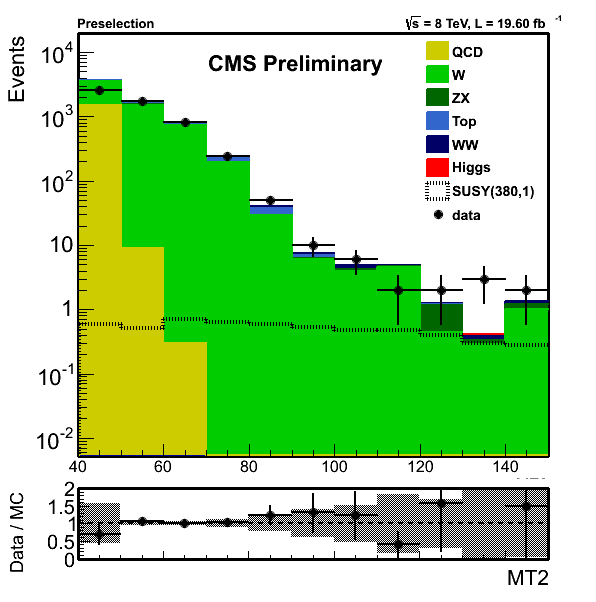
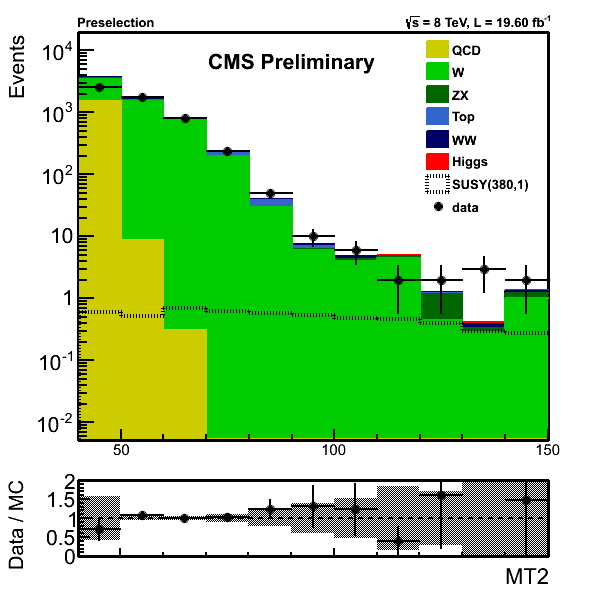
small fix

diff --git a/notes/AN-14-275/trunk/SelectionEleTau/MT2.C b/notes/AN-14-275/trunk/SelectionEleTau/MT2.C
@@ -13,7 +13,7 @@ void MT2()
    MT2_ratio_AllSUSYc_ratio_MT2_MT2PreCut->SetFrameLineWidth(3);
 
 // ------------>Primitives in pad: MT2_ratio_AllSUSY_plotpad_MT2_MT2PreCut
-   TPad *MT2_ratio_AllSUSY_plotpad_MT2_MT2PreCut = new TPad("MT2_ratio_AllSUSY_plotpad_MT2_MT2PreCut", "Pad containing the overlay plot",0,0.1829268,1,1);
+   TPad *MT2_ratio_AllSUSY_plotpad_MT2_MT2PreCut = new TPad("MT2_ratio_AllSUSY_plotpad_MT2_MT2PreCut", "Pad containing the overlay plot",0,0.211838,1,1);
    MT2_ratio_AllSUSY_plotpad_MT2_MT2PreCut->Draw();
    MT2_ratio_AllSUSY_plotpad_MT2_MT2PreCut->cd();
    MT2_ratio_AllSUSY_plotpad_MT2_MT2PreCut->Range(21.64218,-2.833557,161.1615,4.817841);
@@ -45,7 +45,7 @@ void MT2()
    TColor *color; // for color definition with alpha
    ci = TColor::GetColor("#000099");
    MT2PreCut_MT2_stack_2->SetLineColor(ci);
-   MT2PreCut_MT2_stack_2->GetXaxis()->SetTitle("MT2");
+   //   MT2PreCut_MT2_stack_2->GetXaxis()->SetTitle("MT2");
    MT2PreCut_MT2_stack_2->GetXaxis()->SetLabelFont(42);
    MT2PreCut_MT2_stack_2->GetXaxis()->SetLabelSize(0.035);
    MT2PreCut_MT2_stack_2->GetXaxis()->SetTitleSize(0.035);
@@ -624,7 +624,7 @@ tex->SetNDC();
    MT2_ratio_AllSUSYc_ratio_MT2_MT2PreCut->cd();
   
 // ------------>Primitives in pad: MT2_ratio_AllSUSY_ratiopad_MT2_MT2PreCut
-   TPad *MT2_ratio_AllSUSY_ratiopad_MT2_MT2PreCut = new TPad("MT2_ratio_AllSUSY_ratiopad_MT2_MT2PreCut", "Pad containing the ratio",0,0.01916376,0.9966443,0.2038328);
+   TPad *MT2_ratio_AllSUSY_ratiopad_MT2_MT2PreCut = new TPad("MT2_ratio_AllSUSY_ratiopad_MT2_MT2PreCut", "Pad containing the ratio",0,0.01863354,0.9967105,0.2189441);
    MT2_ratio_AllSUSY_ratiopad_MT2_MT2PreCut->Draw();
    MT2_ratio_AllSUSY_ratiopad_MT2_MT2PreCut->cd();
    MT2_ratio_AllSUSY_ratiopad_MT2_MT2PreCut->Range(21.74468,-0.8955223,160.766,2.268657);

diff --git a/notes/SUS-14-022/trunk/SelectionEleTau/MT2.C b/notes/SUS-14-022/trunk/SelectionEleTau/MT2.C
@@ -13,7 +13,7 @@ void MT2()
    MT2_ratio_AllSUSYc_ratio_MT2_MT2PreCut->SetFrameLineWidth(3);
 
 // ------------>Primitives in pad: MT2_ratio_AllSUSY_plotpad_MT2_MT2PreCut
-   TPad *MT2_ratio_AllSUSY_plotpad_MT2_MT2PreCut = new TPad("MT2_ratio_AllSUSY_plotpad_MT2_MT2PreCut", "Pad containing the overlay plot",0,0.1829268,1,1);
+   TPad *MT2_ratio_AllSUSY_plotpad_MT2_MT2PreCut = new TPad("MT2_ratio_AllSUSY_plotpad_MT2_MT2PreCut", "Pad containing the overlay plot",0,0.211838,1,1);
    MT2_ratio_AllSUSY_plotpad_MT2_MT2PreCut->Draw();
    MT2_ratio_AllSUSY_plotpad_MT2_MT2PreCut->cd();
    MT2_ratio_AllSUSY_plotpad_MT2_MT2PreCut->Range(21.64218,-2.833557,161.1615,4.817841);
@@ -45,7 +45,7 @@ void MT2()
    TColor *color; // for color definition with alpha
    ci = TColor::GetColor("#000099");
    MT2PreCut_MT2_stack_2->SetLineColor(ci);
-   MT2PreCut_MT2_stack_2->GetXaxis()->SetTitle("MT2");
+   //   MT2PreCut_MT2_stack_2->GetXaxis()->SetTitle("MT2");
    MT2PreCut_MT2_stack_2->GetXaxis()->SetLabelFont(42);
    MT2PreCut_MT2_stack_2->GetXaxis()->SetLabelSize(0.035);
    MT2PreCut_MT2_stack_2->GetXaxis()->SetTitleSize(0.035);
@@ -624,7 +624,7 @@ tex->SetNDC();
    MT2_ratio_AllSUSYc_ratio_MT2_MT2PreCut->cd();
   
 // ------------>Primitives in pad: MT2_ratio_AllSUSY_ratiopad_MT2_MT2PreCut
-   TPad *MT2_ratio_AllSUSY_ratiopad_MT2_MT2PreCut = new TPad("MT2_ratio_AllSUSY_ratiopad_MT2_MT2PreCut", "Pad containing the ratio",0,0.01916376,0.9966443,0.2038328);
+   TPad *MT2_ratio_AllSUSY_ratiopad_MT2_MT2PreCut = new TPad("MT2_ratio_AllSUSY_ratiopad_MT2_MT2PreCut", "Pad containing the ratio",0,0.01863354,0.9967105,0.2189441);
    MT2_ratio_AllSUSY_ratiopad_MT2_MT2PreCut->Draw();
    MT2_ratio_AllSUSY_ratiopad_MT2_MT2PreCut->cd();
    MT2_ratio_AllSUSY_ratiopad_MT2_MT2PreCut->Range(21.74468,-0.8955223,160.766,2.268657);
